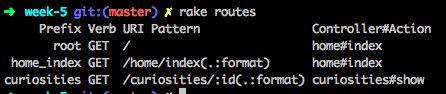
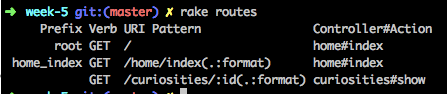
Adding view part & go further section

diff --git a/app/controllers/curiosities_controller.rb b/app/controllers/curiosities_controller.rb
@@ -4,4 +4,11 @@ class CuriositiesController< ApplicationController
   	@curiosity = Curiosity.find(params[:id])
   end
 
+  def destroy
+    @curiosity = Curiosity.find(params[:id]) # Récupère l'identifiant de la curiosité à supprimer
+	@curiosity.delete                        # Supprime la curiosité dans la base de données
+
+	redirect_to home_path             # Redirige l'utilisateur vers la vue Index
+  end
+
 end

diff --git a/config/routes.rb b/config/routes.rb
@@ -2,6 +2,6 @@ Rails.application.routes.draw do
   root 'home#index'
   get 'home/index'
 
-  get '/curiosities/:id', to: 'curiosities#show', as: 'curiosities'
-
+  delete '/curiosities/:id', to: 'curiosities#destroy', as: 'curiosities'
+  get '/curiosities/:id', to: 'curiosities#show'
 end

diff --git a/README.md b/README.md
@@ -143,16 +143,88 @@ C'est normal, la vue liée à l'action ``` show ``` n'existe pas encore. L'appli
 
 ### Créer la vue
 
+Allez dans ```app/views``` et créez le dossier ```curiosities```. Ce dossier contiendra toutes les vues relatives au controleur ``` CuriositiesController ``` créé précedemment.
 
+Puis, créez un fichier nommé ``` show.html.erb ``` dans le dossier ``` Curiosities ```, qui contiendra tout ce que vous voulez afficher concernant une curiosité.
+
+Pour afficher les informations d'une curiosité, il faut manipuler la curiosité contenue dans la variable ``` @curiosity ``` (que nous avons définie précédemment) passée à la vue par le controleur.
+
+![Code pour la vue / méthode SHOW](/images/readme/view_show_code.png)
+
+ce code donnera un affiche comme suit:
+
+![Vue / méthode SHOW](/images/readme/view_display_show.png)
 
 # Étape 3 : Pour aller plus loin
 
-! EN CONSTRUCTION !
+## Détruire une instance en passant par le navigateur
+
+### Créer la route
+
+Pour commencer, nous allons créer une nouvelle route dans le fichier ````config/routes.rb```` pour signifier à la fois quelle action HTTP nous voulons accomplir (ici ````delete````), le controleur de l'objet associé (ici ````curiosities````) et la méthode qui définira l'action à faire quand l'utilisateur cliquera sur le lien (ici ````destroy````).
+
+Rajoutez la ligne suivante dans le fichier ````config/routes.rb```` :
+
+![Routes / DELETE](/images/readme/routes_delete.png)
+
+### Ajouter la méthode correspondante dans le controleur
+
+Maintenant, il s'agit de définir ce qu'il se passe quand l'utilisateur va cliquer sur le lien pour détruire une instance. Dans la méthode ````destroy````, nous allons récupérer l'instance que nous voulons supprimer, grâce aux paramètres de l'url ````/curiosities/25````. Ensuite, nous allons la supprimer dans la base de données grâce à la méthode ````.delete```` et ensuite rediriger l'utilisateur sur la vue de toutes les curiosités.
+
+Rajoutez la méthode ````destroy```` et ce qu'elle fait dans le controleur ````Curiosities```` qui se trouve dans ````app/controllers/curiosities.rb```` :
+
+![Controleur / méthode Destroy](/images/readme/controller_destroy_method.png)
+
+> Rappel :
+> Les valeurs contenues dans la variable ``` params ``` viennent du navigateur de l'utilisateur.
+> Il les envoie au serveur lorsqu'une requete est effectuée. Par exemple, si un utilisateur demande:
+> http://localhost:3000/curiosities?toto=poulpe
+
+> Alors params[:toto] sera égal à poulpe.
+
+> La variable ````params```` est simplement un tableau de valeurs accessibles grace à des clés.
+> Ici la valeur à laquelle accéder est ````poulpe```` et la clé d'accès est ````:toto````.
+
+### Ajouter le lien pour supprimer les curiosités dans la vue
+
+Il faut maintenant afficher à l'utilisateur qu'il peut supprimer une curiosité. Pour cela, dans la vue, nous allons créer un lien dans la boucle de toutes les curiosités contenant le chemin pour détruire une instance en particulier.
+
+> Rappel :
+> Un lien dynamique se construit de cette façon en Ruby On Rails :
+
+> ```Ruby <%= link_to 'Nom du lien qui sera affiché dans la vue', chemin_vers_le_controleur %>````
+
+Trouvons le chemin (``` path ```) qui indiquera la route dans le fichier ``` config/routes.rb ``` vers la méthode du controleur.
+
+> Rappel : vous pouvez entrer ``` rake routes ``` dans votre terminal pour trouver tous les chemins déjà définis.
+
+![Rake routes](/images/readme/rake_routes_delete.png)
+
+Vous retrouvez bien le verbe HTTP ``` DELETE ``` (cf Verb), l'url ``` /curiosity/:id ``` (cf URI Pattern), la méthode du Controleur ``` curiosities#destroy ``` (cf Controller#Action). Et tout devant, un prefix ``` curiosity ``` qui vous donne en fait le chemin à rajouter dans votre vue : ``` curiosity_path ```. Attention, ici, le controleur a besoin de l'identifiant de la curiosité à supprimer. Il faut donc la passer dans les paramètres. Nous l'indiquons comme ceci : ``` curiosity_path(curiosity) ```.
+
+> Rappel : ``` curiosities_path(curiosity) ``` est une méthode générée par Ruby On Rails directement, en fonction de ce que vous avez défini dans le fichier ``` route.rb ```.
+> Elle accepte un objet ``` curiosity ``` ou son identifiant ``` curiosity.id ```.
+
+Rajoutez le lien dans votre vue ``` app/views/home/index.html.erb ``` :
+
+![Lien pour détruire une curiosité ](/images/readme/view_index_code_delete.png)
+
+Dans le cadre d'une suppression, nous rajoutons un élément important au ``` link_to ``` : la précision du verbe HTTP avec ``` method: :delete ```.
+
+Testez maintenant votre nouvelle action sur votre application en détruisant l'une de vos curiosités.
+
+![Lien visible sur l'application, pour détruire une curiosité](/images/readme/view_index_button_delete.png)
 
 # Étape 4 : Enregistrer les modifications sur le répertoire distant
 
 [Enregistrer vos modifications et les envoyer sur votre répertoire Github](https://women-on-rails.github.io/guide/push_project)
 
 # Liens Utiles :
+- La documentation de Ruby : http://ruby-doc.org/core-2.3.1/
+- La documentation de Ruby On Rails : http://api.rubyonrails.org/
+- Active Record : https://fr.wikipedia.org/wiki/Active_record (concept en français) ou http://guides.rubyonrails.org/active_record_basics.html (introduction de Rails, en anglais)
+
 
 ! EN CONSTRUCTION !
+
+(Changer les urls pour celle de CLOUD 9 !!!)
